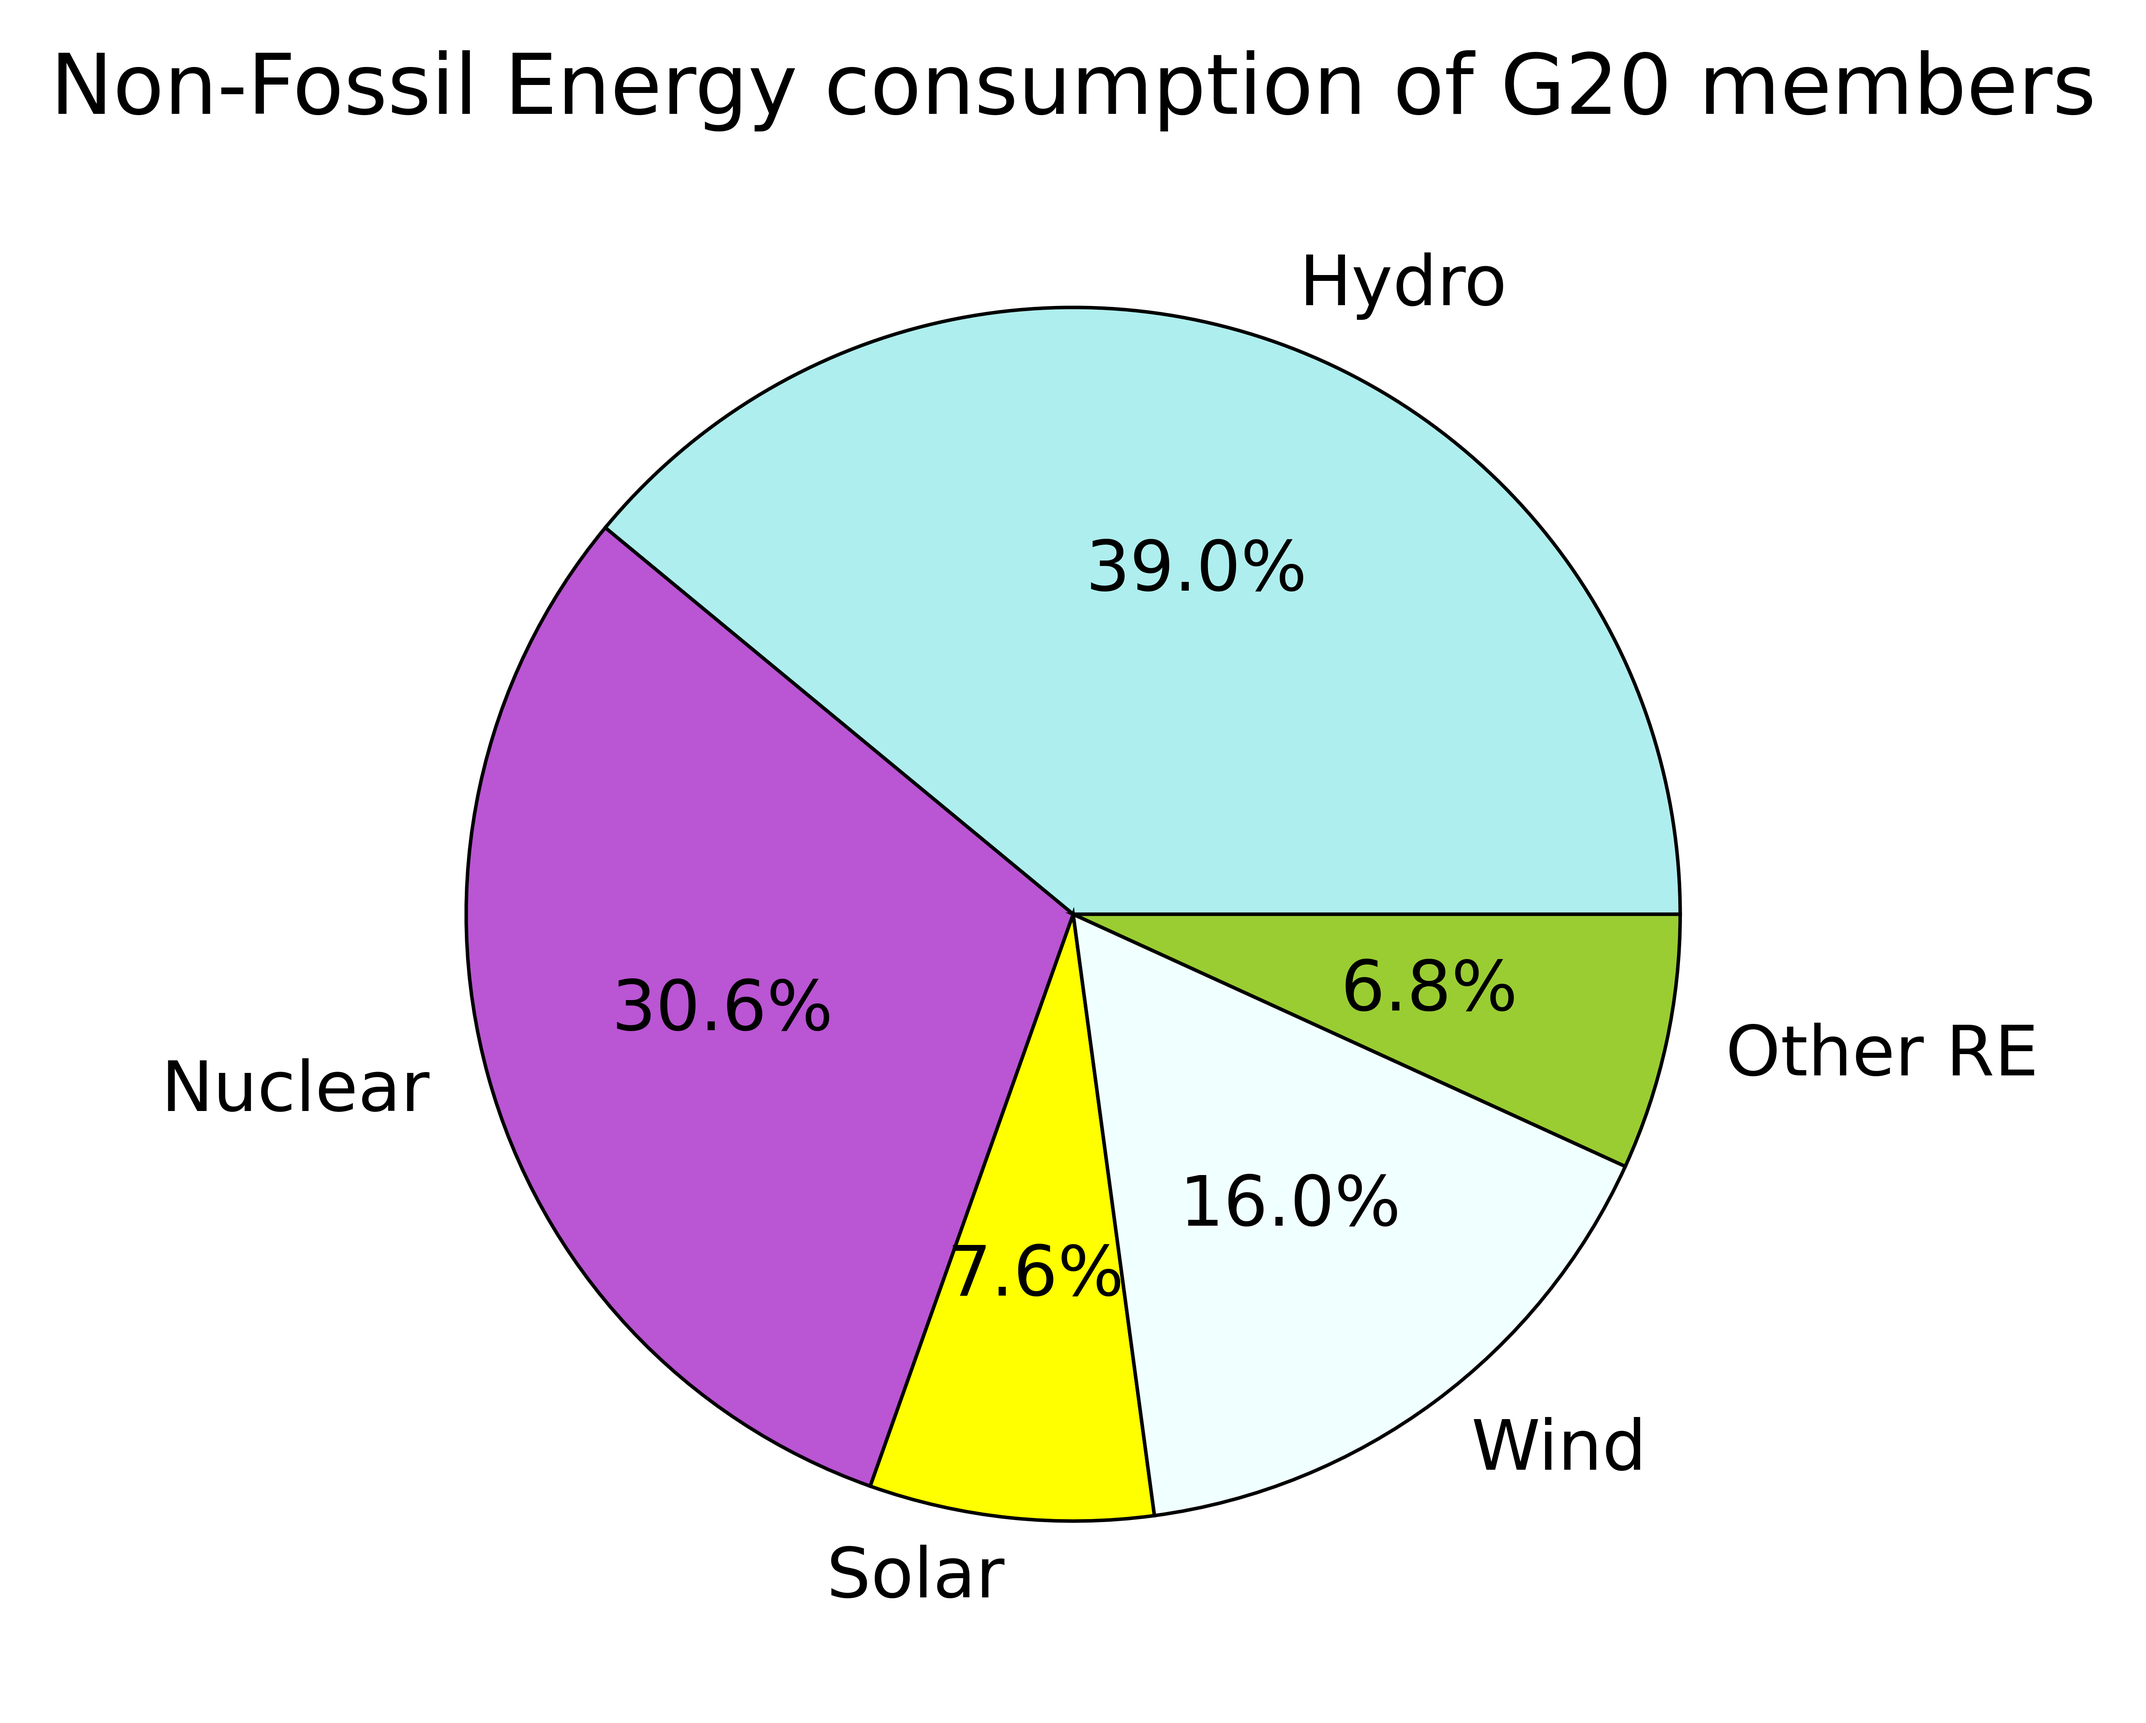
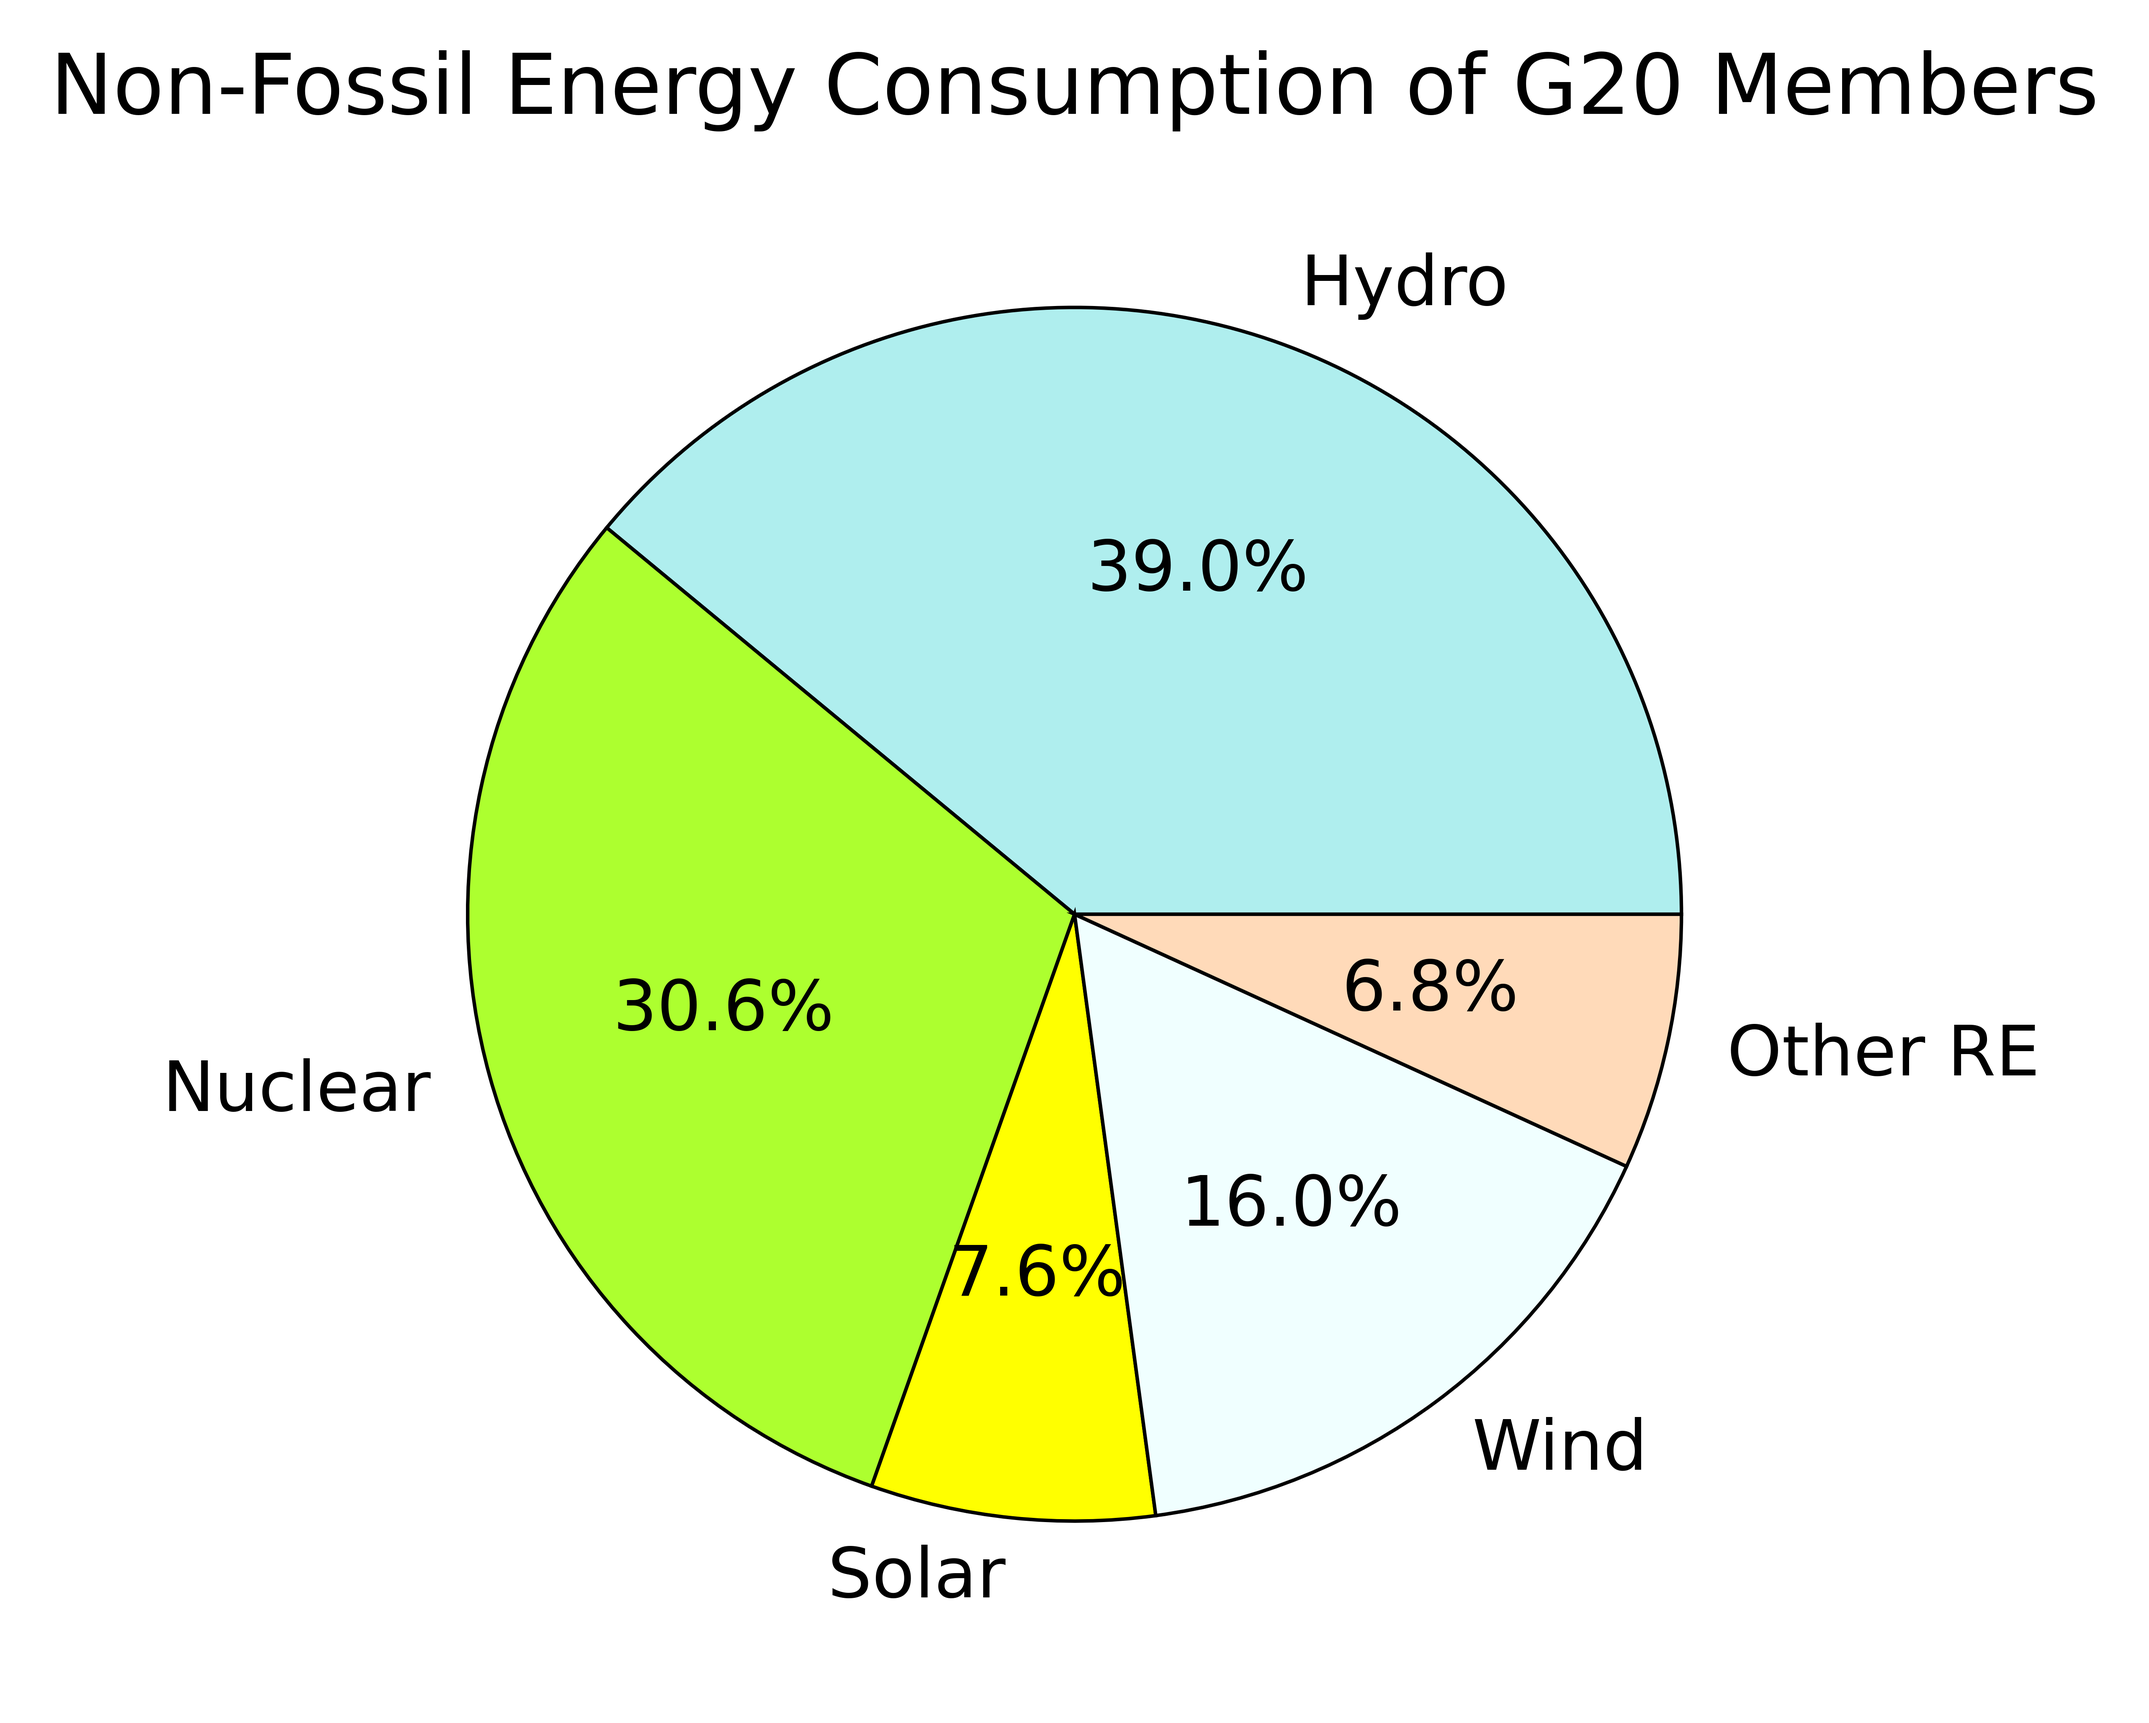
Pelepasan material radioaktif dari kecelakaan Fukushima

diff --git a/pelepasan_radioaktif_fukushima.py b/pelepasan_radioaktif_fukushima.py
@@ -1,0 +1,22 @@
+import numpy as np
+
+# Total radioaktivitas dari kecelakaan nuklir Fukushima: 940 PBq (I-131 eq)
+# [https://world-nuclear.org/information-library/safety-and-security/safety-of-plants/fukushima-daiichi-accident.aspx]
+
+aktivitas = 940E15 # Bq, atau perluruhan/detik
+
+# Spesifikasi I-131
+waktu_paruh         = 8.02*86400              # Hari --> detik
+koefisien_peluruhan = np.log(2.0)/waktu_paruh # /detik
+massa_molar         = 130.9061246             # g/mol
+densitas            = 4.93                    # g/ml
+
+# Jumlah I-131
+atom   = aktivitas/koefisien_peluruhan
+mol    = atom/6.0221409E23 # Dari angka Avogadro
+massa  = mol*massa_molar # g
+volume = massa/densitas  # ml
+
+# Sendok makan (15 ml)
+sendok_makan = volume/15
+print(sendok_makan)

diff --git a/G20/Energy_mix.py b/G20/Energy_mix.py
@@ -69,11 +69,11 @@ plt.show()
 
 dat = [hydro, nuclear, solar, wind, otherRE]
 labels = keys[3:-1]+['Other RE']
-colors = ['paleturquoise','mediumorchid','yellow','azure','yellowgreen']
+colors = ['paleturquoise','greenyellow','yellow','azure','peachpuff']
 _,_,txt = plt.pie(dat, labels=labels, colors=colors, autopct="%.1f%%",wedgeprops = {"edgecolor" : "black",
                       'linewidth': 0.5,
                       'antialiased': True})
-plt.title('Non-Fossil Energy consumption of G20 members')
+plt.title('Non-Fossil Energy Consumption of G20 Members')
 plt.savefig('G20_energyNF.svg',dpi=1200,bbox_inches='tight')
 plt.savefig('G20_energyNF.png',dpi=1200,bbox_inches='tight')
 plt.show()
